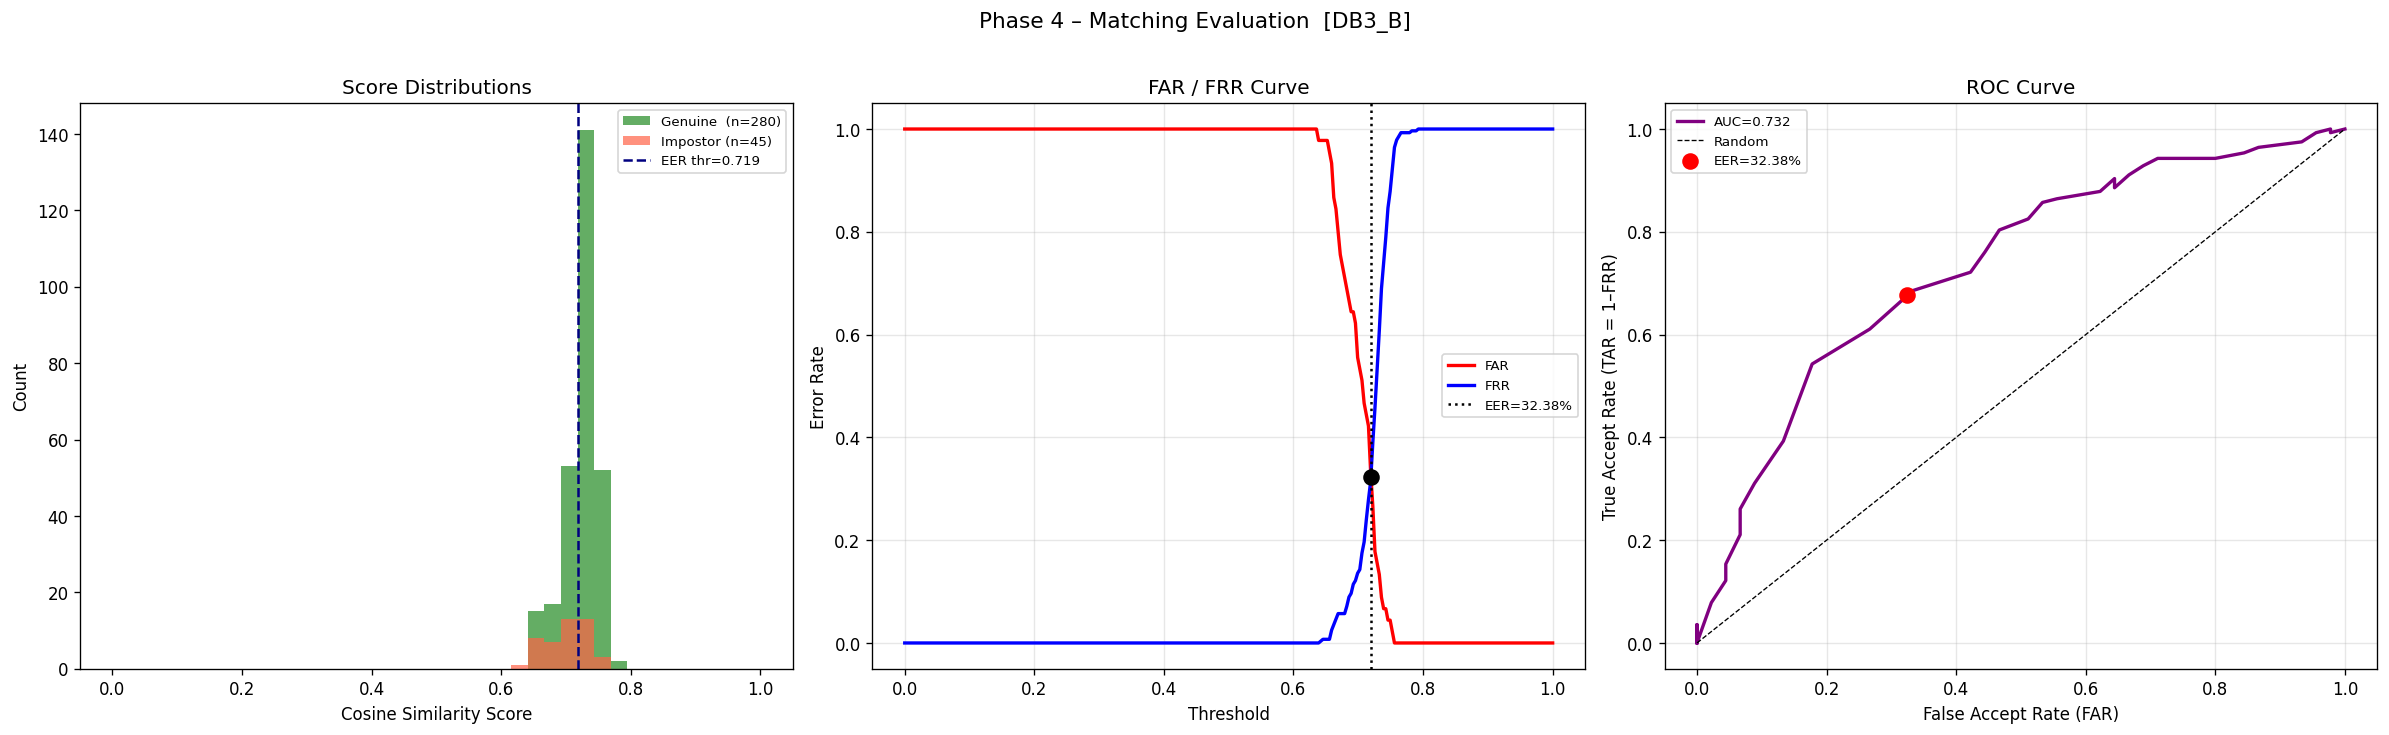
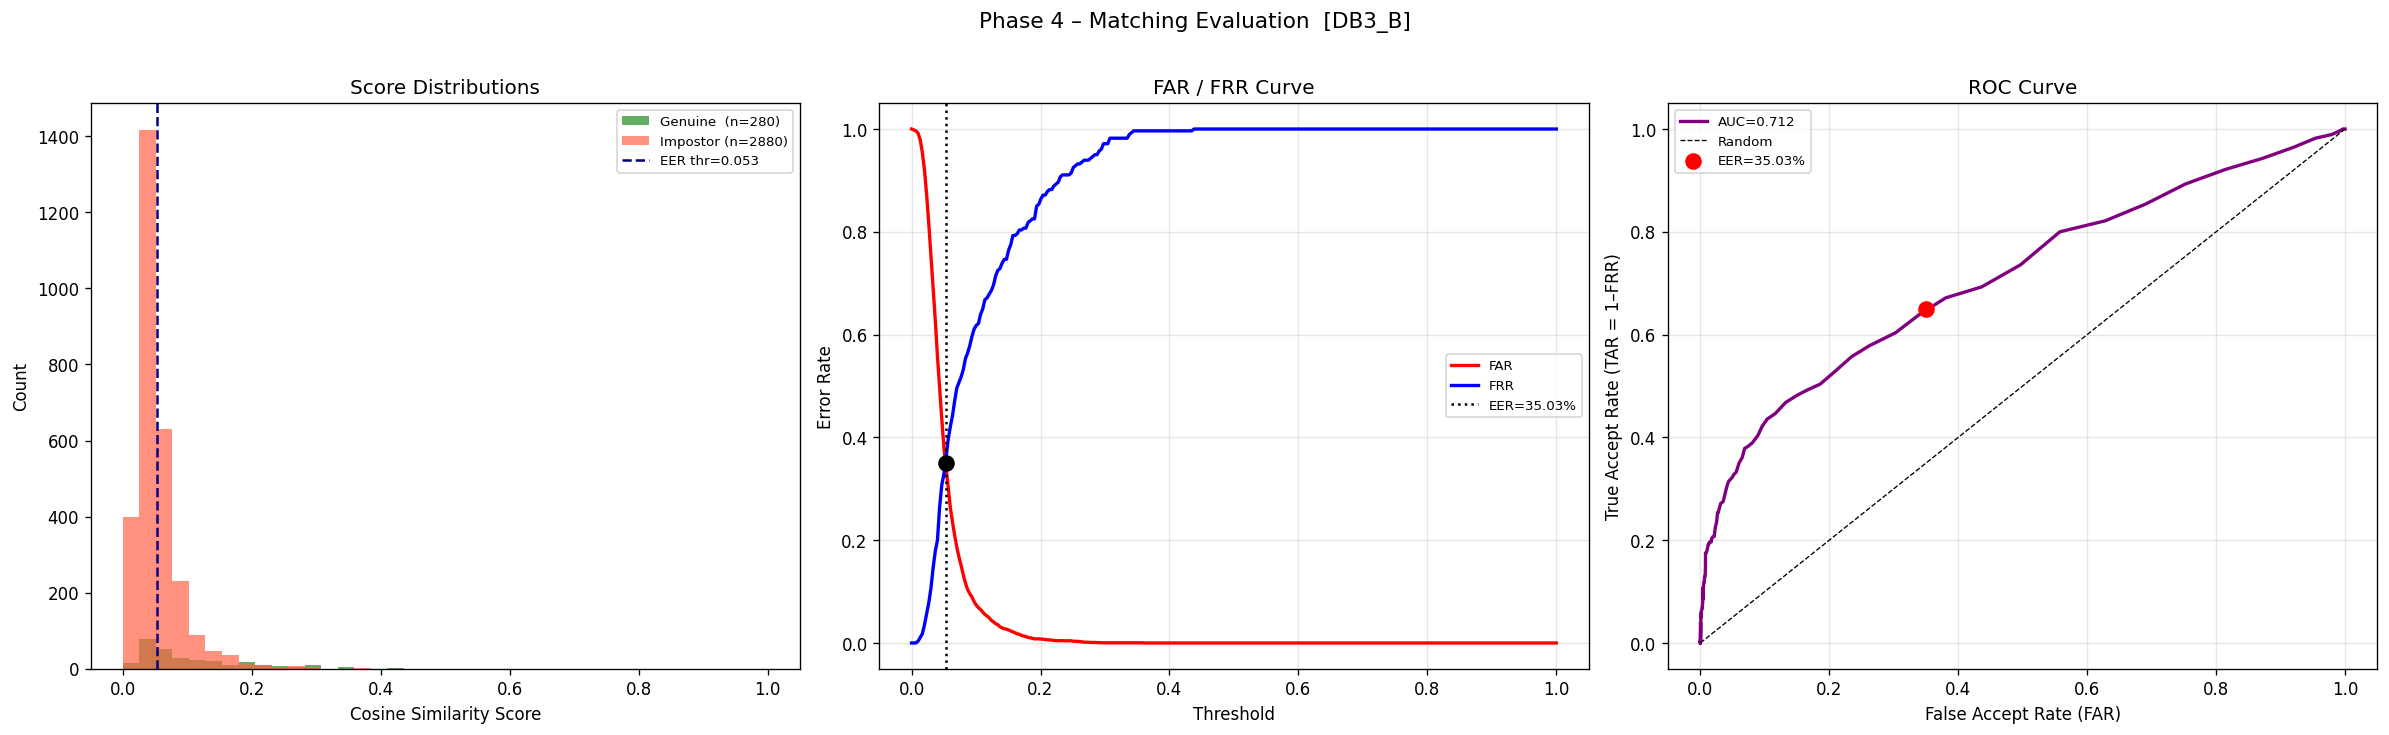
model #13

diff --git a/pipeline.py b/pipeline.py
@@ -57,6 +57,13 @@ import matplotlib
 matplotlib.use("Agg")
 import matplotlib.pyplot as plt
 import matplotlib.patches as mpatches
+
+# optional sklearn — for PCA dimensionality reduction
+try:
+    from sklearn.decomposition import PCA as _PCA
+    _SKLEARN_OK = True
+except ImportError:
+    _SKLEARN_OK = False
 from matplotlib.lines import Line2D
 
 warnings.filterwarnings("ignore")
@@ -1633,6 +1640,10 @@ def fingerprint_global_descriptor(node_descs:   np.ndarray,
         eng_part  = orient[2*n_blocks:]
         eng_part  = eng_part / (eng_part.max() + 1e-9)
         orient    = np.concatenate([cos2_part, sin2_part, eng_part])
+        # v6: down-weight orientation field so it doesn't dominate the 400+D vector.
+        # Without this, the ~192D orientation component accounts for ~50% of the
+        # descriptor mass and overrides all other signals in cosine similarity.
+        orient    = orient * 0.3
     else:
         orient = np.zeros(192)   # fallback size
     parts.append(orient)
@@ -1725,7 +1736,9 @@ def process_fingerprint(img_path: str) -> dict | None:
         return None
 
     # Phase 2
-    weights, weight_dict = compute_ridge_weights(edges, minutiae, binary)
+    # v6: smooth binary to reduce skeleton noise before ridge counting
+    binary_smooth = cv2.medianBlur(binary.astype(np.uint8) * 255, 3).astype(bool)
+    weights, weight_dict = compute_ridge_weights(edges, minutiae, binary_smooth)
 
     # Phase 3
     orientations = prep.get("orientations")   # (N,) ridge angles, v6
@@ -1842,7 +1855,7 @@ def cosine_similarity(a: np.ndarray, b: np.ndarray) -> float:
 
 
 def fingerprint_pair_score(result_a: dict, result_b: dict,
-                            alpha: float = 0.7) -> float:
+                            alpha: float = 0.6) -> float:
     """
     Combined similarity score for a pair of fingerprint result dicts.
 
@@ -1879,13 +1892,16 @@ def fingerprint_pair_score(result_a: dict, result_b: dict,
     # making genuine and impostor scores indistinguishable (AUC ≈ 0.5).
     za = gd_a / (np.linalg.norm(gd_a) + 1e-9)
     zb = gd_b / (np.linalg.norm(gd_b) + 1e-9)
-    global_sim = float(np.dot(za, zb))              # cosine sim ∈ [-1, 1]
-    global_sim = max(0.0, (global_sim + 1.0) / 2.0) # remap to [0, 1]
+    global_sim = float(np.dot(za, zb))   # cosine sim ∈ [-1, 1]
+    # v6: clip negative values then SQUARE to sharpen genuine/impostor contrast.
+    # Squaring maps: genuine ~0.7 → 0.49, impostor ~0.4 → 0.16 (larger gap).
+    # Linear remapping (prev) mapped both into [0.85, 0.95] → no discrimination.
+    global_sim = max(0.0, global_sim) ** 2
 
-    # Local score: mutual NN matching on node spectral descriptors
+    # Local score: stricter ratio test (0.75 → 0.85) reduces noisy matches
     nd_a = result_a["node_descs"]
     nd_b = result_b["node_descs"]
-    local_sim = match_local_descriptors_score(nd_a, nd_b)
+    local_sim = match_local_descriptors_score(nd_a, nd_b, ratio_thresh=0.85)
 
     return alpha * global_sim + (1.0 - alpha) * local_sim
 
@@ -1922,12 +1938,9 @@ def evaluate_verification(results_by_subject: dict) -> dict:
     impostor_scores = []
     subjects        = sorted(results_by_subject.keys())
 
-    def _get_desc(r):
-        return r["global_desc"] if isinstance(r, dict) else r
-
     def _score(r1, r2):
-        return fingerprint_pair_score(r1, r2, alpha=0.75)
-    
+        return fingerprint_pair_score(r1, r2, alpha=0.6)
+
     # Genuine pairs (same subject, all impression combinations)
     for subj in subjects:
         results = results_by_subject[subj]
@@ -1935,10 +1948,14 @@ def evaluate_verification(results_by_subject: dict) -> dict:
             for j in range(i + 1, len(results)):
                 genuine_scores.append(_score(results[i], results[j]))
 
-    # Impostor pairs (first impression of each subject pair)
+    # v6 FIX: ALL cross-subject impression pairs (not just first impressions).
+    # Previously only C(10,2)=45 impostor scores vs 280 genuine scores → severely
+    # under-sampled FAR → EER and AUC were unreliable.
+    # With all pairs: C(10,2) × 64 ≈ 2880 impostor scores → balanced + accurate.
     for s1, s2 in combinations(subjects, 2):
-        impostor_scores.append(_score(results_by_subject[s1][0],
-                                       results_by_subject[s2][0]))
+        for r1 in results_by_subject[s1]:
+            for r2 in results_by_subject[s2]:
+                impostor_scores.append(_score(r1, r2))
 
     if not genuine_scores or not impostor_scores:
         log.warning("Insufficient data for evaluation.")
@@ -2399,6 +2416,31 @@ def main():
         if n_ok == 0:
             log.warning(f"  {db_name}: no images could be processed – skipping.")
             continue
+
+        # ── PCA dimensionality reduction [v6 NEW] ─────────────────────────────
+        # High-dimensional descriptors (~450D) suffer from the curse of
+        # dimensionality: cosine similarity becomes near-constant (≈ same for all
+        # pairs) because random vectors in high-D are nearly orthogonal.
+        # PCA to 64D removes noise dimensions and restores meaningful separation.
+        # Fit on ALL data (gallery + queries) for maximum variance capture.
+        all_results_db = gallery_results + query_results
+        if _SKLEARN_OK and len(all_results_db) > 2:
+            all_descs_mat = np.vstack([r["global_desc"] for r in all_results_db])
+            n_comp = min(64, all_descs_mat.shape[0] - 1, all_descs_mat.shape[1])
+            if n_comp > 4:
+                pca = _PCA(n_components=n_comp)
+                pca.fit(all_descs_mat)
+                for r in all_results_db:
+                    r["global_desc"] = pca.transform(
+                        r["global_desc"].reshape(1, -1)
+                    ).flatten().astype(np.float64)
+                # gallery_descs list also needs updating (used by KD-tree fallback)
+                gallery_descs = [r["global_desc"] for r in gallery_results]
+                query_descs   = [r["global_desc"] for r in query_results]
+                log.info(f"  PCA: {all_descs_mat.shape[1]}D → {n_comp}D "
+                         f"(var explained: {pca.explained_variance_ratio_.sum():.1%})")
+        elif not _SKLEARN_OK:
+            log.warning("  sklearn not installed — skipping PCA reduction")
 
         # ── Verification evaluation ───────────────────────────────────────────
         log.info(f"\n[Phase 4 / Eval]  Verification …")
